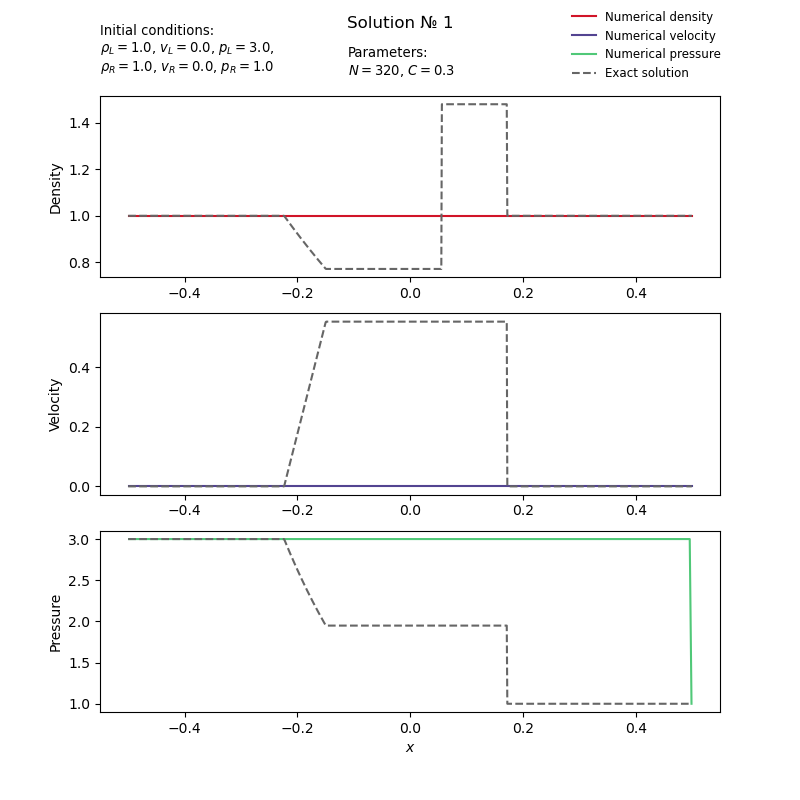
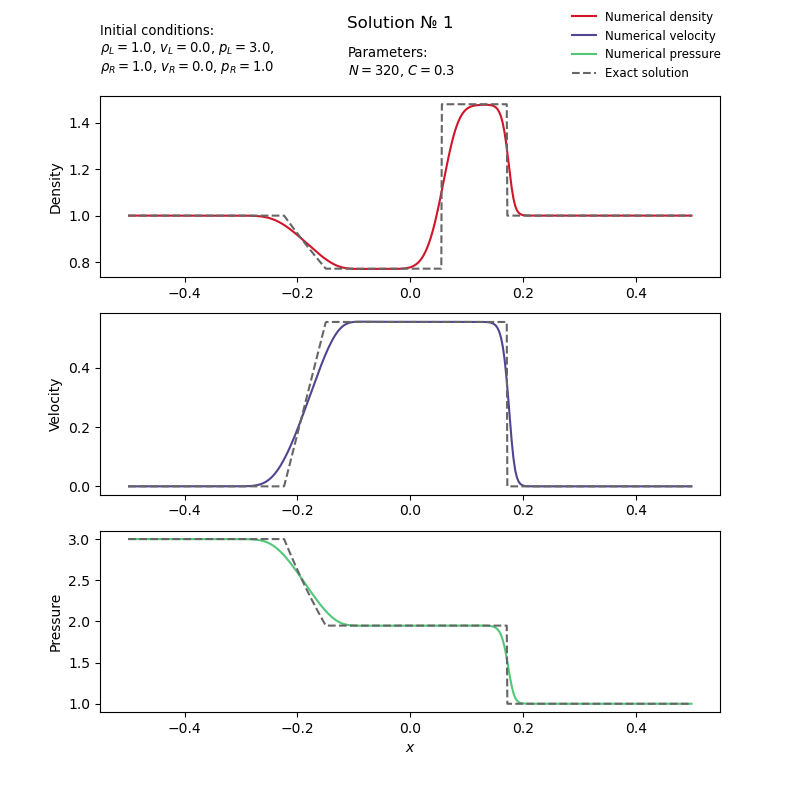
IT'S FINALLY DONE

diff --git a/functions.cpp b/functions.cpp
@@ -117,14 +117,6 @@ void HLL_method (int N, double adiabat, vector<vector<double>>& u, vector<vector
         // F_star2[var].resize(N + 1); 
     }
 
-// Setting boundary conditions (BC)
-
-    for (size_t k = 0; k < 3; ++k)
-    {
-        tmp_u[k][0] = u[k][0];
-        tmp_u[k][N - 1] = u[k][N - 1];
-    }
-
 // Creating vectors to store wave propagation speeds (D_L, D_R), sound speed (s_vel) and flows (F_L, F_R)
     
     vector<double> D_L, D_R, s_vel, F_L, F_R;
@@ -145,6 +137,7 @@ void HLL_method (int N, double adiabat, vector<vector<double>>& u, vector<vector
 
 // Main function loop
 
+    int kh = 0;
     while (t <= time_res)
     {
     // The input of the function was u and F, transform them into primitive variables and place them
@@ -190,38 +183,13 @@ void HLL_method (int N, double adiabat, vector<vector<double>>& u, vector<vector
             }
         }
 
-    // // Similar actions for the case when the left border is [i] and the right border is [i+1]
-    //     for (size_t i = 1; i < N; ++i)
-    //         compute_wave_speed (vel[i], vel[i + 1], s_vel[i], s_vel[i + 1], D_L[i], D_R[i]);
+    // Setting boundary conditions (BC)
 
-    //     for (size_t j = 1; j < N; ++j)
-    //     {
-    //         F_L[0] = dens[j] * vel[j];
-    //         F_L[1] = dens[j] * pow(vel[j], 2) +  pres[j];
-    //         F_L[2] = pres[j] * vel[j] / (adiabat - 1) + dens[j] * pow( vel[j], 3) / 2 + pres[j] * vel[j];
-               
-    //         F_R[0] = dens[j + 1] * vel[j + 1];
-    //         F_R[1] = dens[j + 1] * pow(vel[j + 1], 2) +  pres[j + 1];
-    //         F_R[2] = pres[j + 1] * vel[j + 1] / (adiabat - 1) + dens[j + 1] * \
-    //                  pow(vel[j + 1], 3) / 2 + pres[j + 1] * vel[j + 1];
-            
-    //         for (size_t k = 0; k < 3; ++k)
-    //         {
-    //             if (D_L[j] > 0)
-    //             {
-    //                 F_star2[k][j] = F_L[k];
-    //             }
-    //             else if ((D_L[j] <= 0) && (D_R[j] >= 0))
-    //             {
-    //                 F_star2[k][j] = (-D_L[j] * F_R[k] + D_R[j] * F_L[k] + D_L[j] * D_R[j] * \
-    //                                 (u[k][j + 1] -  u[k][j])) / (D_R[j] - D_L[j]);
-    //             }
-    //             else if (D_R[j] < 0)
-    //             {
-    //                 F_star2[k][j] = F_R[k];
-    //             }
-    //         }
-    //     }
+        for (size_t k = 0; k < 3; ++k)
+        {
+            tmp_u[k][0] = u[k][0];
+            tmp_u[k][N - 1] = u[k][N - 1];
+        }
         
     // Application of the Harten, Lax, van Leer scheme    
         for (size_t j = 1; j < N - 1; ++j)
@@ -231,15 +199,16 @@ void HLL_method (int N, double adiabat, vector<vector<double>>& u, vector<vector
     // Updating BC
         for (size_t k = 0; k < 3; ++k)
         {
-            u[k][0] = tmp_u[k][0];
-
             for (size_t j = 1; j < N - 1; ++j)
-                u[k][j] = tmp_u[k][j - 1];
-
-            u[k][N - 1] = tmp_u[k][N - 1];
+                u[k][j] = tmp_u[k][j];
         }
 
     // Updating the time counter
         t += dt;
+
+        kh++;
+
+        // if (kh > 0)
+        //    break;
     }
 }

diff --git a/result_processing/graphs.py b/result_processing/graphs.py
@@ -68,5 +68,5 @@ fig.text(0, 1.4, textstr, transform=ax1.transAxes, fontsize=9.5, verticalalignme
 fig.text(0.4, 1.275, textpar, transform=ax1.transAxes, fontsize=9.5, verticalalignment='top')
 fig.legend(handles=[line1, line2, line3, line4], fontsize=8.5, loc='upper right', bbox_to_anchor=(0.915, 1), frameon=False)
 
-plt.show()
-# plt.savefig("./solution/solution" + res_num + "_N" + str(N) + "_C" + str(C) + ".png")
+# plt.show()
+plt.savefig("./solution/solution" + res_num + "_N" + str(N) + "_C" + str(C) + ".png")
